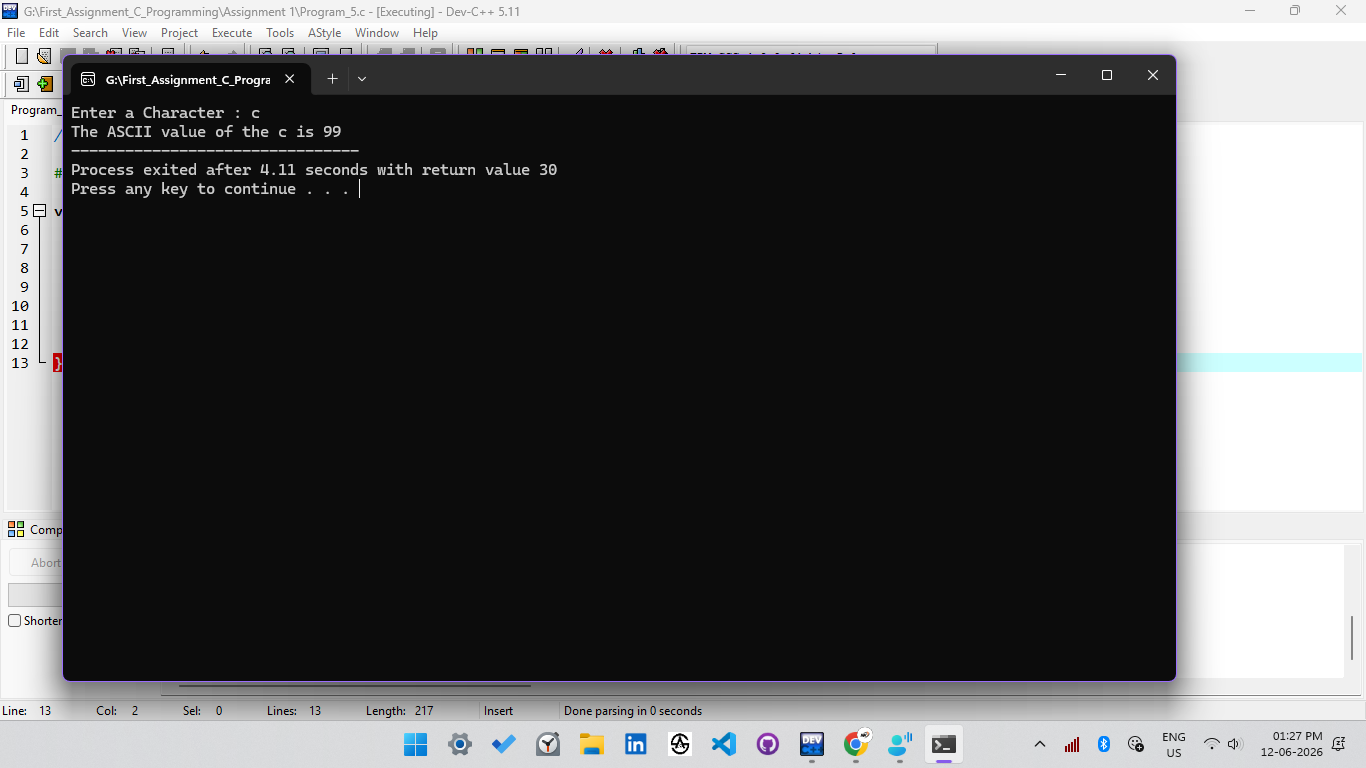
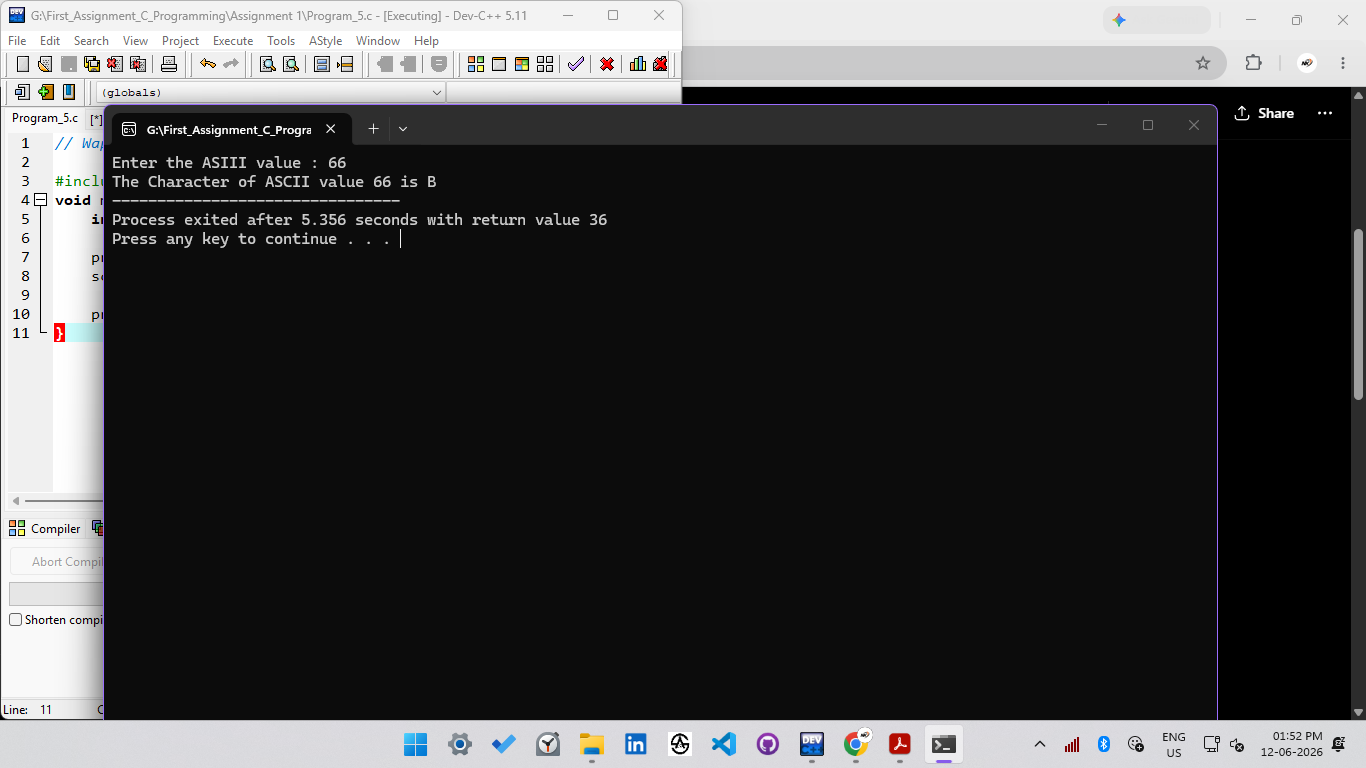
new

diff --git a/Assignment 1/Program_5.c b/Assignment 1/Program_5.c
@@ -2,11 +2,10 @@
 
 #include<stdio.h> 
 void main(){
-	char ch;
+	int ASCII_value;
 	
-	printf("Enter a Character : ");
-	scanf("%c",&ch);
+	printf("Enter the ASIII value : ");
+	scanf("%d",&ASCII_value);
 	
-	printf("The ASCII value of the %c is %d",ch,ch);
-	
+	printf("The Character of ASCII value %d is %c",ASCII_value,ASCII_value);
 }

diff --git a/Assignment 1/Program_11.c b/Assignment 1/Program_11.c
@@ -3,5 +3,11 @@
 #include<stdio.h>
 
 void main(){
+	char ch;
+	
+	printf("Enter a Character : ");
+	scanf("%c",&ch);
+	
+	printf("The ASCII value of the %c is %d",ch,ch);
 	
 }